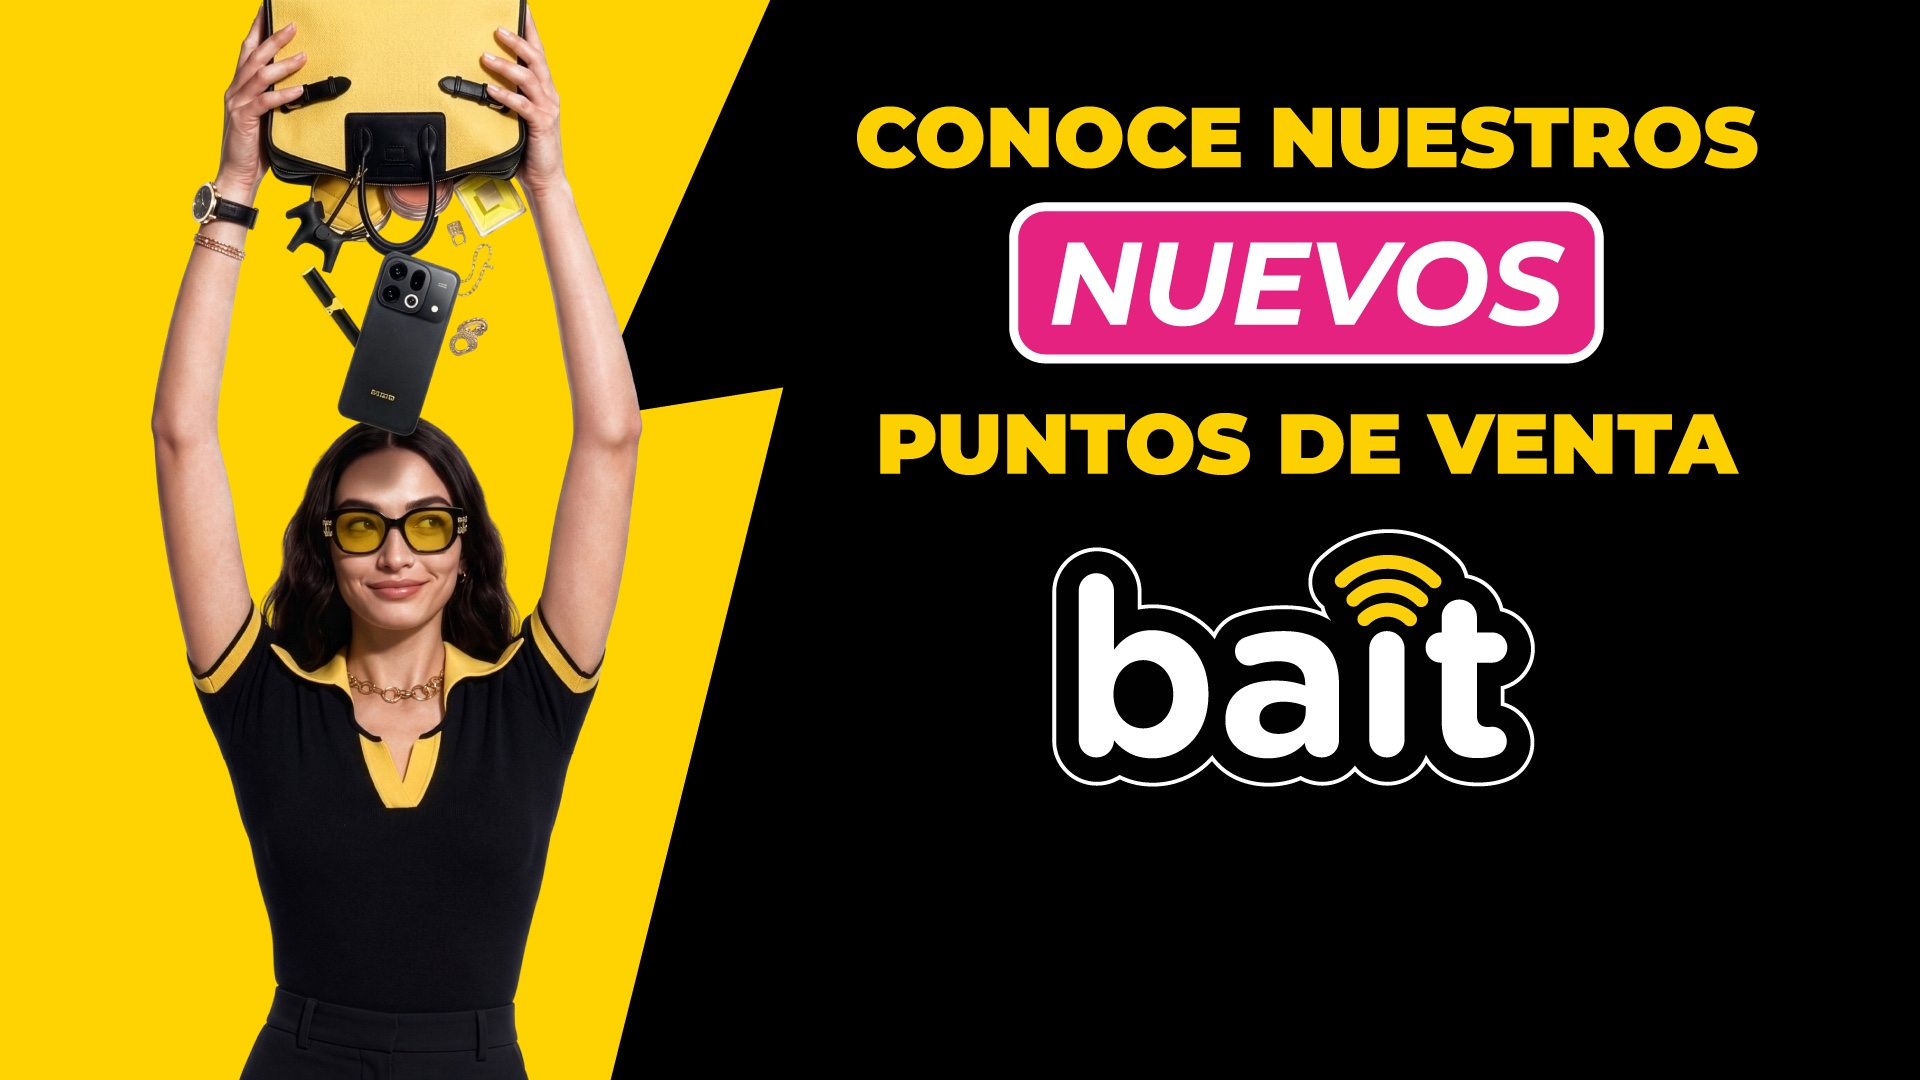
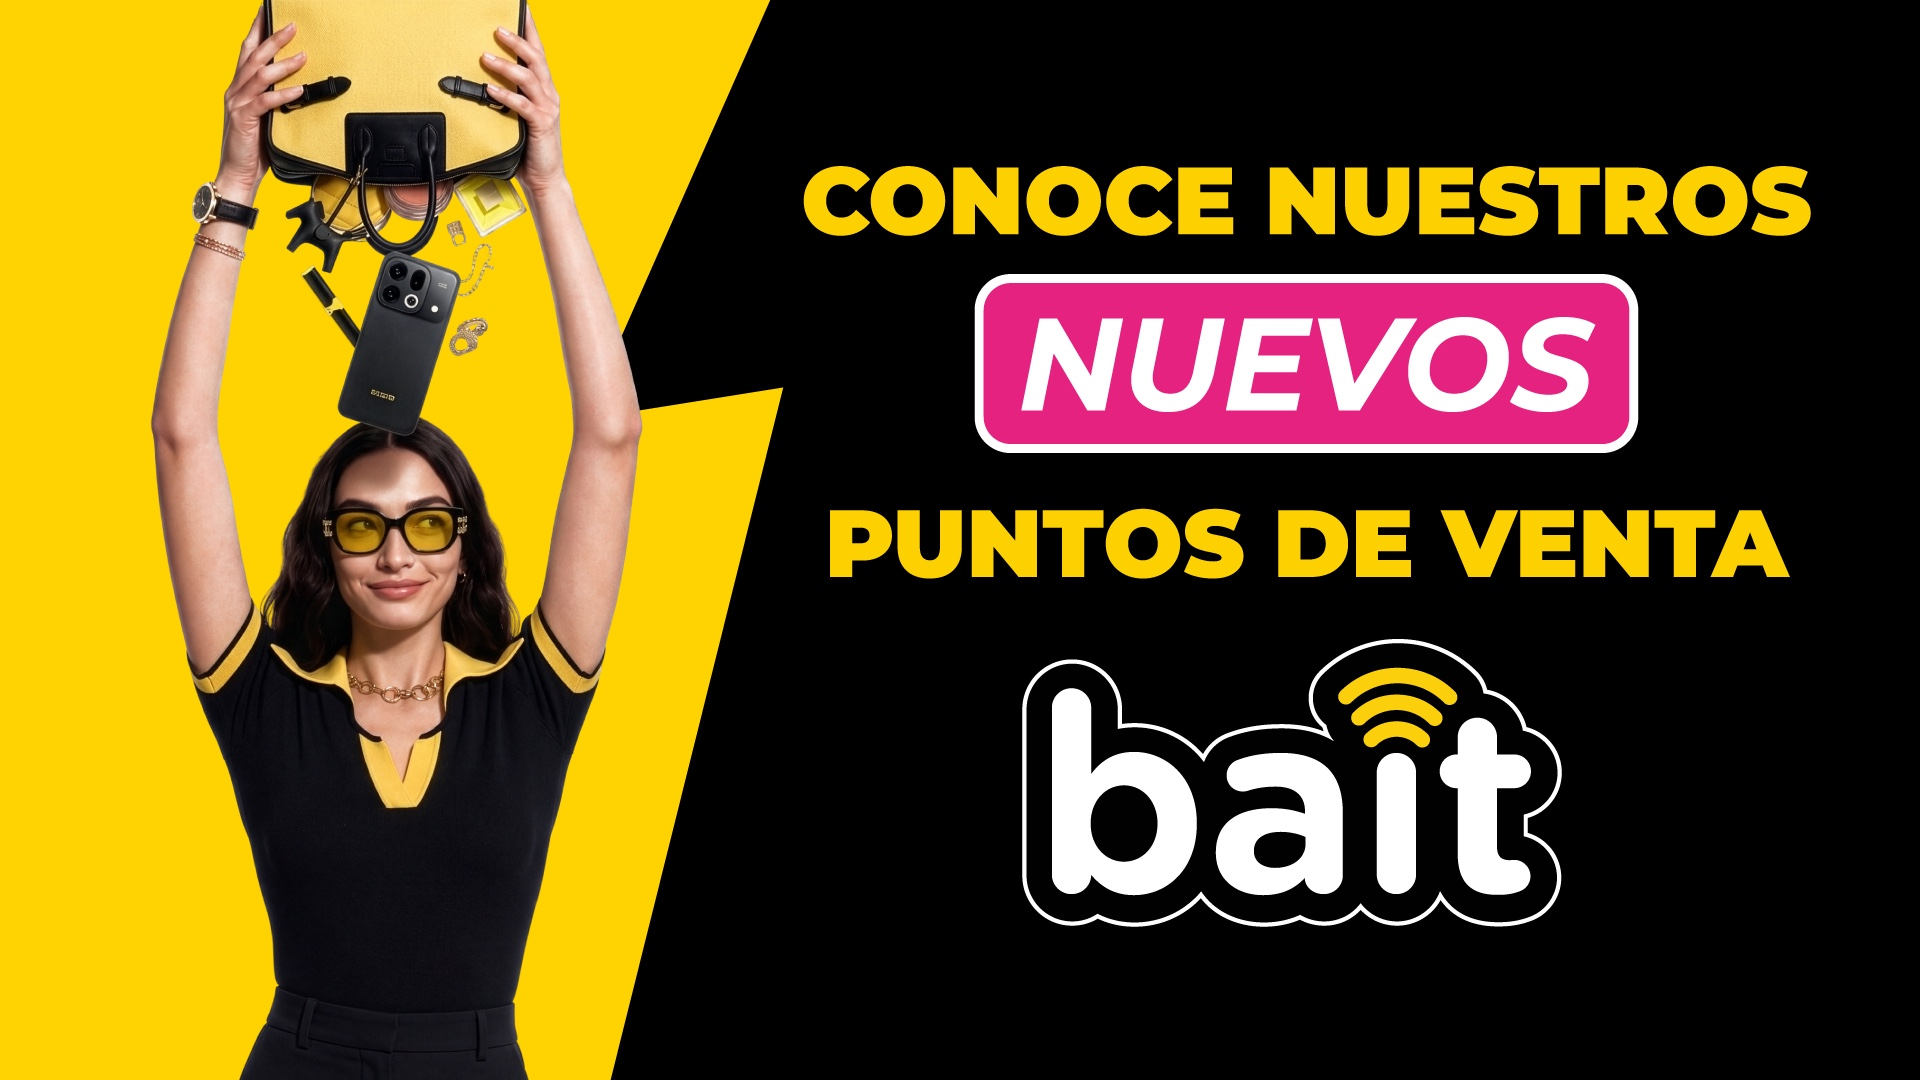
Update BAIT promo art and speed up popup fireworks.

Changed region(s): [[0.4062, 0.0917, 0.9688, 0.8556]]

diff --git a/js/promo-popup.js b/js/promo-popup.js
@@ -43,11 +43,11 @@
   }
 
   function explode(x, y) {
-    const count = 34 + Math.floor(Math.random() * 18);
+    const count = 38 + Math.floor(Math.random() * 20);
     const color = FX_COLORS[Math.floor(Math.random() * FX_COLORS.length)];
     for (let i = 0; i < count; i += 1) {
       const angle = (Math.PI * 2 * i) / count + Math.random() * 0.25;
-      const speed = 1.6 + Math.random() * 3.8;
+      const speed = 3.2 + Math.random() * 5.5;
       fxParticles.push({
         x,
         y,
@@ -55,9 +55,9 @@
         vy: Math.sin(angle) * speed,
         radius: 1.4 + Math.random() * 2.2,
         life: 0,
-        ttl: 900 + Math.random() * 700,
+        ttl: 650 + Math.random() * 450,
         color,
-        trail: Math.random() > 0.55,
+        trail: Math.random() > 0.45,
       });
     }
   }
@@ -68,8 +68,8 @@
     fxRockets.push({
       x,
       y: fxH + 10,
-      vx: (Math.random() - 0.5) * 0.8,
-      vy: -(6.2 + Math.random() * 2.4),
+      vx: (Math.random() - 0.5) * 1.4,
+      vy: -(14 + Math.random() * 5.5),
       targetY,
       color: FX_COLORS[Math.floor(Math.random() * FX_COLORS.length)],
     });
@@ -80,26 +80,27 @@
     if (!fxLast) fxLast = now;
     const delta = Math.min(32, now - fxLast);
     fxLast = now;
+    const step = delta / 12;
 
     fxCtx.clearRect(0, 0, fxW, fxH);
 
     fxRockets = fxRockets.filter((rocket) => {
-      rocket.x += rocket.vx * (delta / 16);
-      rocket.y += rocket.vy * (delta / 16);
-      rocket.vy += 0.045 * (delta / 16);
+      rocket.x += rocket.vx * step;
+      rocket.y += rocket.vy * step;
+      rocket.vy += 0.08 * step;
 
       fxCtx.beginPath();
       fxCtx.strokeStyle = rocket.color;
       fxCtx.globalAlpha = 0.85;
-      fxCtx.lineWidth = 2;
+      fxCtx.lineWidth = 2.4;
       fxCtx.moveTo(rocket.x, rocket.y);
-      fxCtx.lineTo(rocket.x - rocket.vx * 3, rocket.y - rocket.vy * 3);
+      fxCtx.lineTo(rocket.x - rocket.vx * 2.2, rocket.y - rocket.vy * 2.2);
       fxCtx.stroke();
 
       fxCtx.beginPath();
       fxCtx.fillStyle = "#fff";
       fxCtx.globalAlpha = 1;
-      fxCtx.arc(rocket.x, rocket.y, 2.2, 0, Math.PI * 2);
+      fxCtx.arc(rocket.x, rocket.y, 2.4, 0, Math.PI * 2);
       fxCtx.fill();
 
       if (rocket.y <= rocket.targetY || rocket.vy >= -0.4) {
@@ -112,20 +113,20 @@
     fxParticles = fxParticles.filter((p) => {
       p.life += delta;
       if (p.life >= p.ttl) return false;
-      p.x += p.vx * (delta / 16);
-      p.y += p.vy * (delta / 16);
-      p.vy += 0.045 * (delta / 16);
-      p.vx *= 0.99;
-      p.vy *= 0.99;
+      p.x += p.vx * step;
+      p.y += p.vy * step;
+      p.vy += 0.07 * step;
+      p.vx *= 0.985;
+      p.vy *= 0.985;
       const alpha = 1 - p.life / p.ttl;
 
       if (p.trail) {
         fxCtx.beginPath();
         fxCtx.strokeStyle = p.color;
-        fxCtx.globalAlpha = alpha * 0.35;
-        fxCtx.lineWidth = 1;
+        fxCtx.globalAlpha = alpha * 0.4;
+        fxCtx.lineWidth = 1.2;
         fxCtx.moveTo(p.x, p.y);
-        fxCtx.lineTo(p.x - p.vx * 2.5, p.y - p.vy * 2.5);
+        fxCtx.lineTo(p.x - p.vx * 2.2, p.y - p.vy * 2.2);
         fxCtx.stroke();
       }
 
@@ -154,13 +155,13 @@
     fxParticles = [];
     fxRockets = [];
     fxLast = 0;
-    fxUntil = performance.now() + 4800;
-    const bursts = window.matchMedia("(max-width: 720px)").matches ? 6 : 9;
+    fxUntil = performance.now() + 4200;
+    const bursts = window.matchMedia("(max-width: 720px)").matches ? 7 : 11;
     for (let i = 0; i < bursts; i += 1) {
       window.setTimeout(() => {
         if (!opened || closing) return;
         launchRocket();
-      }, 80 + i * 220);
+      }, 30 + i * 110);
     }
     if (!fxRaf) fxRaf = window.requestAnimationFrame(tickFx);
   }
